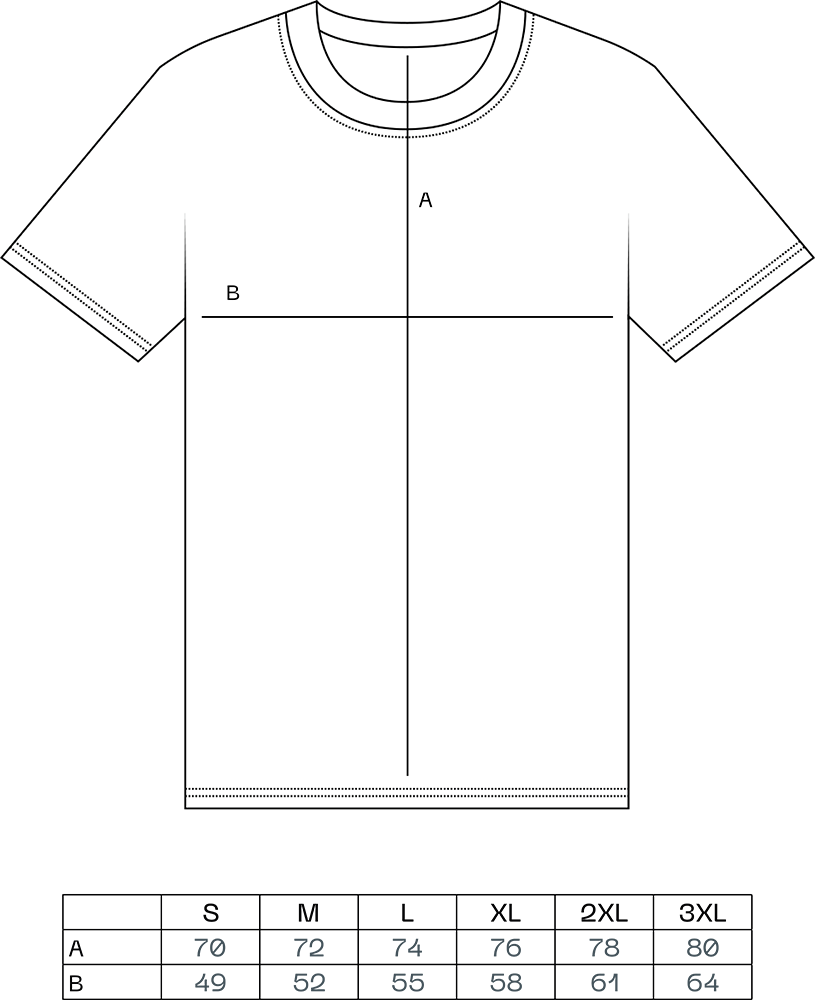
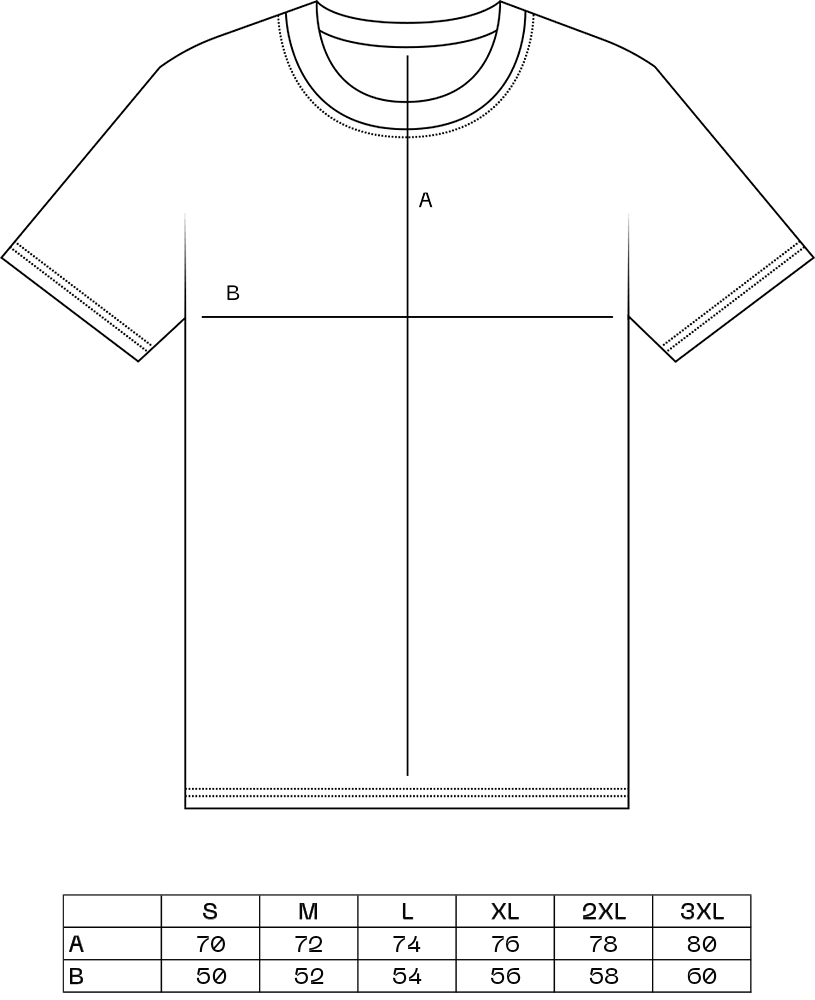
added new items to size chart

Changed region(s): [[0.0613, 0.899, 0.9509, 1.0]]

diff --git a/src/pages/sizes-page/sizes-page.jsx b/src/pages/sizes-page/sizes-page.jsx
@@ -4,6 +4,7 @@ import tee_classic_sizes from '../../tee_classic_sizes.png';
 import tee_oversize_sizes from '../../tee_oversize_sizes.png';
 import tee_promo_sizes from '../../tee_promo_sizes.png';
 import tee_gildan_sizes from '../../tee_promo_sizes.png';
+import tee_freefit_sizes from '../../tee_freefit_sizes.png';
 import hoodie_classic_sizes from '../../hoodie_classic_sizes.png';
 
 function SizesPage() {
@@ -22,6 +23,14 @@ function SizesPage() {
         <h2 className={styles.section_title}>Футболки OVERSIZE</h2>
         <img
           src={tee_oversize_sizes}
+          alt="size chart oversize tee"
+          className={styles.img}
+        />
+      </section>
+      <section className={styles.section}>
+        <h2 className={styles.section_title}>Футболки FREEFIT</h2>
+        <img
+          src={tee_freefit_sizes}
           alt="size chart oversize tee"
           className={styles.img}
         />
